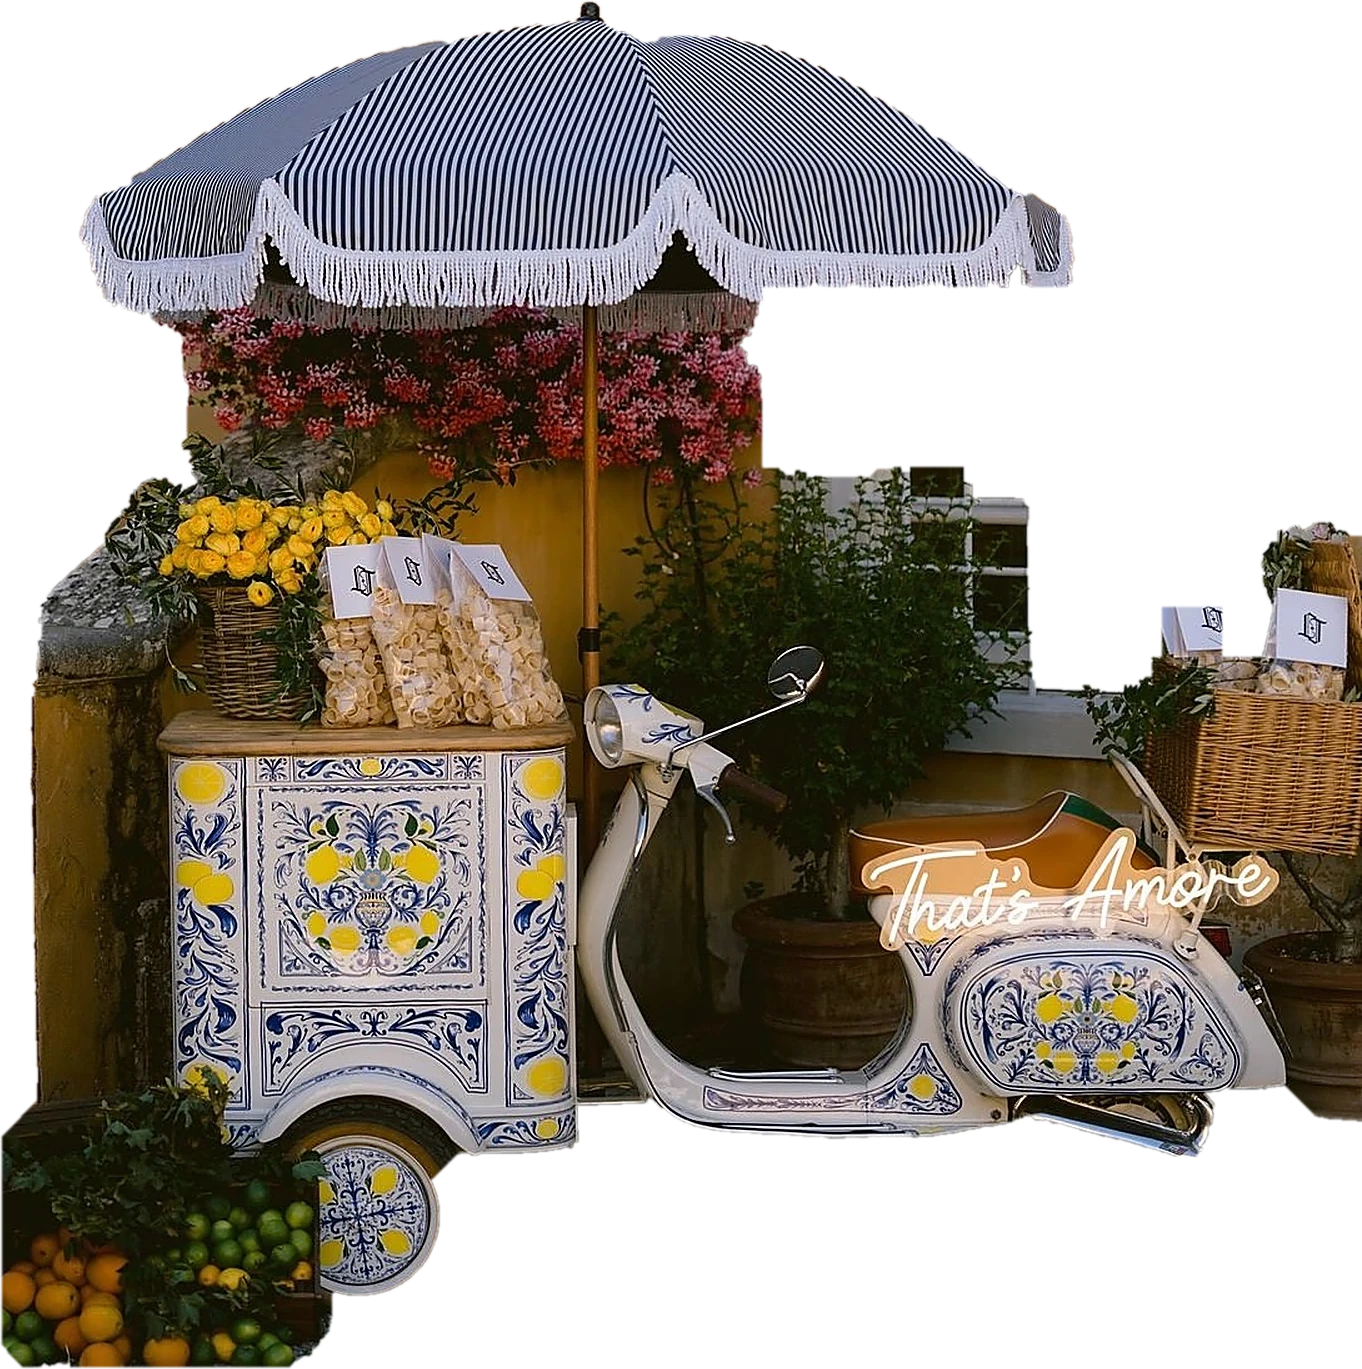
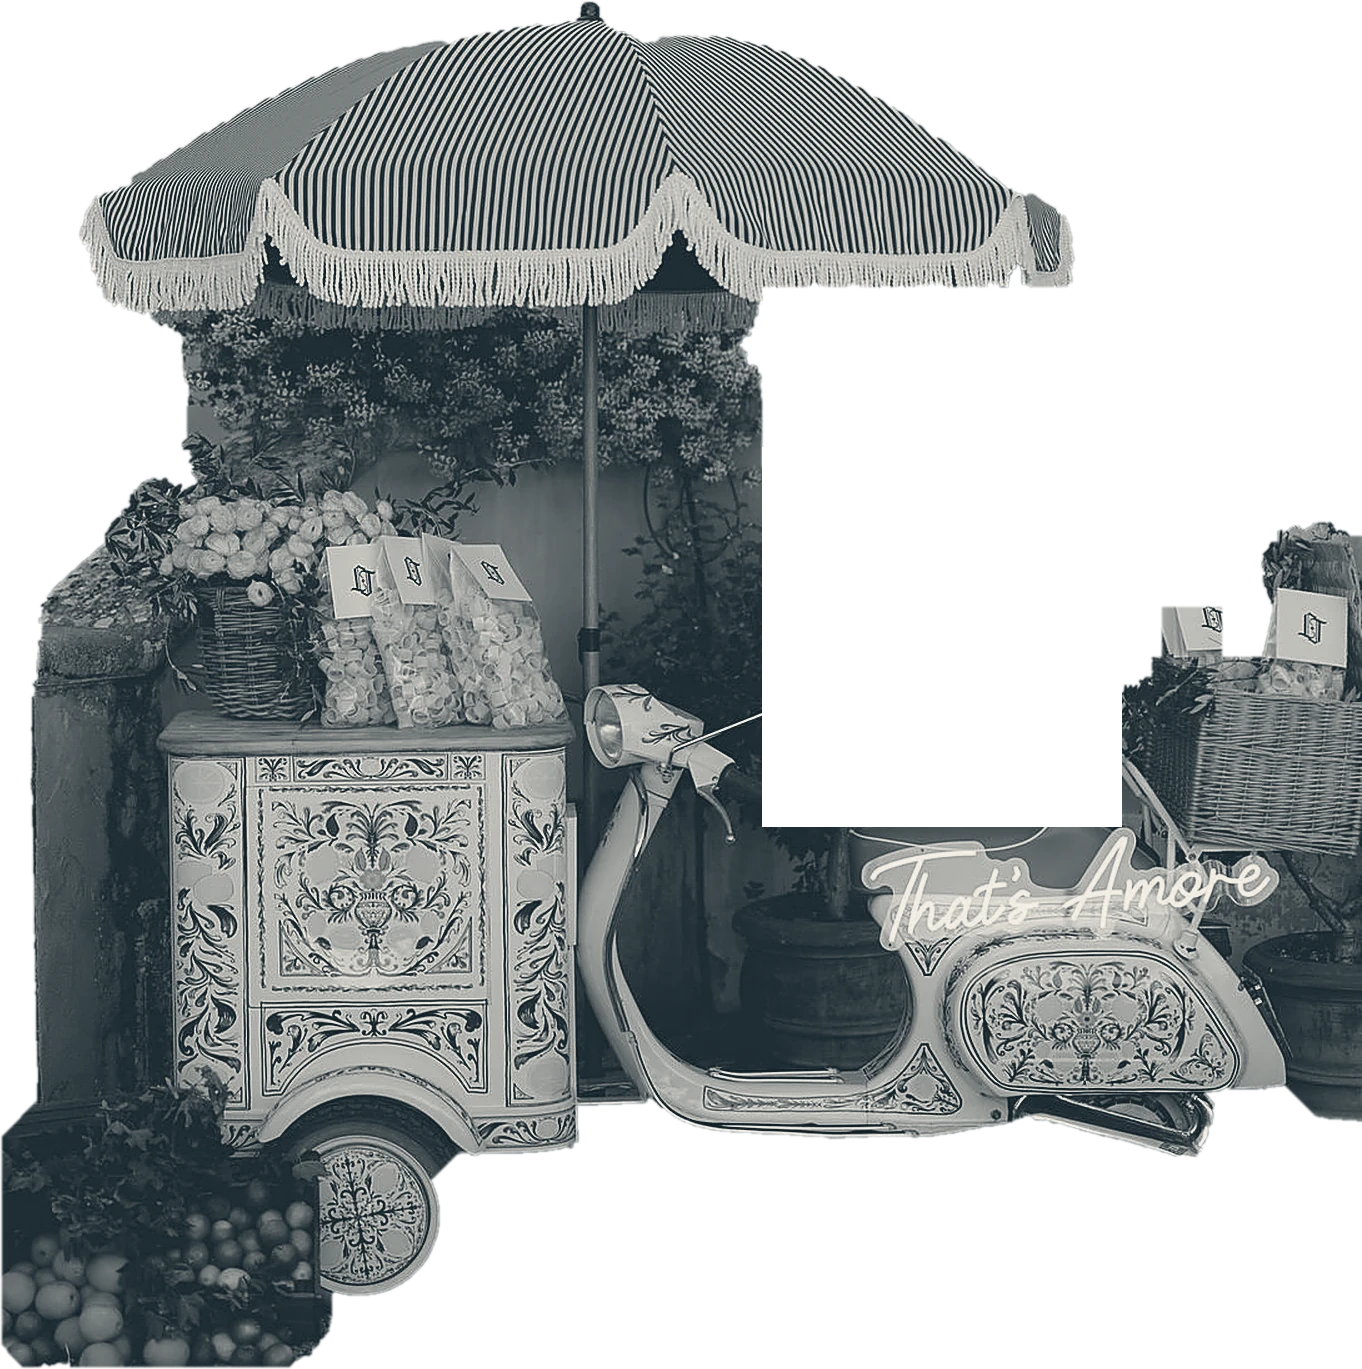
Fondatrice : traitement duotone (modélisation graphique), carte de menu redessinée, bug de rendu drop-shadow corrigé
- founder-vespa-cutout.webp passe en duotone bleu Méditerranéen/blanc
  calcaire (le détourage couleur avait été rejeté : "je veux une
  modélisation de l'image, pas l'image elle-même")
- Carte de menu (.founder-menu-card) entièrement redessinée : coins en L
  et double liséré retirés, remplacés par un ornement minimal
  trait+losange, coins arrondis, ombre adoucie, rotation réduite
- Retrait de filter:drop-shadow sur .founder-scene-cutout : combiné au
  scale() du zoom au scroll, il produisait un artefact rectangulaire
  (bug de rendu Chromium confirmé par comparaison de pixels), non résolu
  par un flou réduit ni par l'isolement de calque

diff --git a/assets/css/style.css b/assets/css/style.css
@@ -1489,17 +1489,28 @@ h3 { font-size: clamp(1.3rem, 1vw + 0.95rem, 1.75rem); }
   transform-origin: 25.1% 45.8%;
   will-change: transform;
 }
-/* drop-shadow (pas box-shadow) : suit la silhouette découpée du détourage
-   plutôt que de projeter l'ombre d'un rectangle photo — c'est ce qui fait
-   lire l'ensemble comme un objet 2D détouré posé sur la page, pas une
-   photo dans un cadre. */
+/* Pas de `filter:drop-shadow()` ici : un essai avait été fait pour suivre
+   la silhouette découpée (plutôt qu'un `box-shadow` rectangulaire), mais
+   Chromium produit un artefact de rendu réel avec cette combinaison
+   précise — un rectangle légèrement plus sombre que le fond navy,
+   visible en plein milieu de zones pourtant 100% transparentes de
+   l'image, uniquement quand le filtre est combiné à l'ancêtre
+   `.founder-scene-zoom` qui porte le `transform:scale()` du zoom au
+   scroll. Repéré par script Playwright (comparaison de pixels avant/
+   après désactivation du filtre, pas supposé) : ni réduire le rayon de
+   flou (`50px→18px`) ni isoler l'image sur son propre calque
+   (`transform:translateZ(0)`) n'a supprimé l'artefact — bug de
+   rastérisation du filtre sur calque transformé, pas un problème de
+   réglage. Le rendu reste net et lisible sans cette ombre (le détourage
+   duotone se suffit à lui-même comme objet posé sur le fond navy) ; si
+   `filter:drop-shadow` réapparaît ici, revérifier ce bug avant de le
+   garder. */
 .founder-scene-cutout {
   position: absolute;
   inset: 0;
   width: 100%;
   height: 100%;
   object-fit: contain;
-  filter: drop-shadow(0 26px 50px rgba(0, 0, 0, 0.5));
 }
 
 /* La carte de menu : positionnée pour recouvrir exactement l'emplacement
@@ -1549,43 +1560,47 @@ h3 { font-size: clamp(1.3rem, 1vw + 0.95rem, 1.75rem); }
   top: 36.8%;
   width: 24%;
   height: 18%;
-  background: linear-gradient(155deg, #fffaf0 0%, var(--cream) 65%);
-  border: 1px solid rgba(var(--navy-rgb), 0.16);
-  border-radius: 3px;
-  box-shadow: 0 10px 26px rgba(16, 31, 39, 0.4);
-  transform: rotate(-2.5deg) translateY(10px);
+  background: linear-gradient(165deg, #fffdf7 0%, var(--cream) 100%);
+  border-radius: 9px;
+  box-shadow:
+    0 1px 0 rgba(255, 255, 255, 0.6) inset,
+    0 14px 32px rgba(9, 18, 23, 0.34),
+    0 2px 6px rgba(9, 18, 23, 0.2);
+  transform: rotate(-1.1deg) translateY(10px);
   opacity: 0;
   display: flex;
+  flex-direction: column;
   align-items: center;
   justify-content: center;
-  padding: 5px 7px;
+  gap: 6px;
+  padding: 8px 9px;
 }
-.founder-menu-card::before {
+.founder-menu-card-ornament {
+  position: relative;
+  width: 34%;
+  height: 1px;
+  background: var(--terracotta);
+  opacity: 0.75;
+  flex-shrink: 0;
+}
+.founder-menu-card-ornament::before {
   content: "";
   position: absolute;
-  inset: 11%;
-  border: 0.5px solid var(--rosso-venezia);
-  opacity: 0.55;
-  pointer-events: none;
+  top: 50%;
+  left: 50%;
+  width: 5px;
+  height: 5px;
+  border-radius: 50%;
+  background: var(--terracotta);
+  transform: translate(-50%, -50%) rotate(45deg);
 }
-.founder-menu-card-corner {
-  position: absolute;
-  width: 15%;
-  height: 22%;
-  border: 1.4px solid var(--terracotta);
-  pointer-events: none;
-}
-.founder-menu-card-corner-tl { top: 7%; left: 7%; border-right: none; border-bottom: none; }
-.founder-menu-card-corner-tr { top: 7%; right: 7%; border-left: none; border-bottom: none; }
-.founder-menu-card-corner-bl { bottom: 7%; left: 7%; border-right: none; border-top: none; }
-.founder-menu-card-corner-br { bottom: 7%; right: 7%; border-left: none; border-top: none; }
 .founder-menu-card-quote {
   position: relative;
   z-index: 1;
   width: 100%;
   font-family: var(--font-display);
   font-style: italic;
-  line-height: 1.22;
+  line-height: 1.24;
   text-align: center;
   color: var(--rosso-ombria);
 }

diff --git a/engagements.html b/engagements.html
@@ -319,12 +319,9 @@
 
       <div class="founder-scene-frame">
         <div class="founder-scene-zoom" id="founderZoom">
-          <img class="founder-scene-cutout" src="assets/img/founder-vespa-cutout.webp" alt="Le stand Vespa fleuri Simposio, décor Dolce Vita" loading="lazy" />
+          <img class="founder-scene-cutout" src="assets/img/founder-vespa-cutout.webp" alt="Modélisation graphique du stand Vespa fleuri Simposio" />
           <div class="founder-menu-card" id="founderMenuCard">
-            <span class="founder-menu-card-corner founder-menu-card-corner-tl" aria-hidden="true"></span>
-            <span class="founder-menu-card-corner founder-menu-card-corner-tr" aria-hidden="true"></span>
-            <span class="founder-menu-card-corner founder-menu-card-corner-bl" aria-hidden="true"></span>
-            <span class="founder-menu-card-corner founder-menu-card-corner-br" aria-hidden="true"></span>
+            <span class="founder-menu-card-ornament" aria-hidden="true"></span>
             <p class="founder-menu-card-quote">
               « Simposio est née de l'envie de porter l'art de recevoir à l'italienne jusqu'en Alsace — pas comme un
               thème, mais comme une manière de traiter chaque invité. »

diff --git a/assets/js/main.js b/assets/js/main.js
@@ -1006,7 +1006,7 @@
         founderCard.style.opacity = String(cardT);
         founderCard.style.filter = "blur(" + ((1 - cardT) * 6).toFixed(2) + "px)";
         var cardLift = (1 - cardT) * 10;
-        founderCard.style.transform = "rotate(-2.5deg) translateY(" + cardLift.toFixed(2) + "px)";
+        founderCard.style.transform = "rotate(-1.1deg) translateY(" + cardLift.toFixed(2) + "px)";
       }
 
       if (founderCaption) {

diff --git a/CLAUDE.md b/CLAUDE.md
@@ -3324,6 +3324,96 @@ formulaire de contact (soumission par `mailto:`, pas de backend).
   régression sur le reste du détourage. Regression complète 5 pages ×
   2 viewports : 0 débordement, 0 erreur console, 0 lien/asset cassé
   (l'ancien fichier photo a été supprimé du dépôt).
+- **Fondatrice — traitement duotone ("modélisation, pas l'image"), carte
+  redessinée, bug de rendu du drop-shadow corrigé (2026-08-18, même
+  journée)** (`founder-vespa-cutout.webp`, `.founder-menu-card*`,
+  `.founder-scene-cutout`, `engagements.html`/`style.css`/`main.js`) : la
+  cliente a rejeté le détourage couleur du bullet précédent ("Je t'ai dit
+  que je veux une modélisation de l'image, pas l'image elle-même et que tu
+  découpes uniquement le stand. Par ailleurs la carte est vraiment moche
+  retravaille tout ça pour que ça fasse élégant.") — deux corrections
+  distinctes.
+  **"Modélisation, pas l'image elle-même"** : une tentative d'illustration
+  vectorielle dessinée à la main (Vespa en SVG simplifié) a été essayée en
+  premier et écartée après rendu — beaucoup trop grossière/amateur pour le
+  niveau de finition attendu sur ce site (aucun outil de génération d'image
+  disponible dans cet environnement pour produire une illustration
+  crédible, cf. limitation déjà documentée). Remplacé par un traitement
+  **duotone** du détourage réel (toujours issu de GrabCut, cf. bullet
+  précédent, aucun pixel modifié) : luminance de chaque pixel interpolée
+  entre le Bleu Méditerranéen foncé (`--navy-900`) et le Blanc Calcaire
+  (`--cream`), canal alpha d'origine conservé à l'identique (script Pillow/
+  numpy, non commité — dérivé comme les autres traitements photo du
+  projet). Le résultat se lit comme une gravure/illustration éditoriale
+  plutôt qu'une photo filtrée — validé visuellement avant application (une
+  version composée sur fond navy a été inspectée) puis confirmé une fois
+  en place sur la page réelle. Dimensions inchangées (1362×1369) donc
+  aucun recalcul des pourcentages de position de la carte ni du
+  `transform-origin` du zoom n'a été nécessaire.
+  **"Découpe uniquement le stand" — tenté puis explicitement abandonné** :
+  un essai de recadrage pour exclure un panier en osier secondaire visible
+  à droite de la composition a été fait, mesuré par script Python (analyse
+  colonne par colonne de l'opacité) — mais le panier et la carrosserie
+  arrière de la Vespa se chevauchent en pixels sur toute cette zone (aucune
+  colonne totalement transparente entre les deux), rendant impossible une
+  découpe rectangulaire propre. Un premier essai de recadrage a produit un
+  bord net tranchant en plein milieu du scooter, repéré par capture d'écran
+  avant d'être appliqué au site — abandonné. Le fichier livré garde donc
+  l'assemblage complet du stand (parasol, meuble en céramique, Vespa et
+  panier), qui reste cohérent comme un seul élément de décor. Si un
+  recadrage partiel de `founder-vespa-cutout.webp` réapparaît ici, vérifier
+  d'abord par un script d'opacité colonne par colonne qu'aucune découpe
+  franche du Vespa n'est réintroduite.
+  **Carte "vraiment moche" — retravaillée** (`.founder-menu-card`,
+  `style.css`) : les 4 coins décoratifs en L (`.founder-menu-card-corner-*`)
+  et le double liséré pointillé-devenu-plein intérieur
+  (`.founder-menu-card::before`) — jugés trop chargés, effet "enseigne de
+  motel" — sont entièrement retirés (HTML et CSS) et remplacés par un seul
+  petit ornement minimal (`.founder-menu-card-ornament` : un fin trait
+  terracotta horizontal avec un losange centré) posé au-dessus de la
+  citation. La carte elle-même est adoucie : `border-radius` de `3px` à
+  `9px`, la bordure fine `rgba(navy,0.16)` est retirée (le `box-shadow`
+  seul suffit à détacher la carte du fond), l'ombre portée est éclaircie/
+  diffusée (`0 14px 32px` + un liseré clair `inset` en haut plutôt qu'un
+  simple `0 10px 26px` plat), la rotation réduite de `-2.5deg` à `-1.1deg`
+  pour une pose plus posée. La disposition interne passe de
+  `justify-content:center` (ligne unique) à `flex-direction:column;
+  gap:6px` pour empiler l'ornement au-dessus du texte. **Piège de padding
+  en `%` réintroduit puis corrigé sur-le-champ** : le premier jet utilisait
+  `padding:9% 10%` sur `.founder-menu-card` — comme déjà documenté et
+  corrigé une fois pour cette même carte (bullet précédent), un pourcentage
+  de padding se résout par rapport à la largeur du conteneur ENGLOBANT
+  (`.founder-scene-zoom`, ~544px), pas de la carte elle-même (~131px) ;
+  repéré avant publication (pas seulement corrigé après coup) et remplacé
+  par un padding fixe (`8px 9px`). La rotation codée en dur dans
+  `updateFounderDive()` (`main.js`, appliquée à chaque frame de scroll par-
+  dessus la base CSS) a été mise à jour en conséquence (`-2.5deg` →
+  `-1.1deg`), sans quoi le JS aurait écrasé la nouvelle rotation CSS à
+  chaque tick de scroll.
+  **Bug de rendu Chromium réel trouvé et corrigé, sans lien avec les deux
+  demandes ci-dessus** : lors de la vérification par capture d'écran, un
+  rectangle légèrement plus sombre que le fond navy restait visible en
+  haut à droite du cadre, y compris dans des zones à 100% transparentes du
+  détourage — confirmé par échantillonnage de pixels (le rectangle
+  disparaissait entièrement quand `filter` était désactivé en JS dans la
+  console). Cause : `filter:drop-shadow()` sur `.founder-scene-cutout`,
+  combiné au `transform:scale()` du zoom au scroll porté par son parent
+  `.founder-scene-zoom` — un vrai bug de rastérisation de filtre sur calque
+  transformé, pas un réglage à ajuster. Deux contournements standards
+  testés et écartés (aucun n'a fait disparaître le rectangle) : réduire le
+  rayon de flou (`50px→18px`) et isoler l'image sur son propre calque de
+  composition (`transform:translateZ(0)` + `will-change`). Le filtre a été
+  retiré plutôt que contourné — le détourage duotone se suffit à lui-même
+  sans ombre portée photographique, cohérent avec l'esprit "modélisation
+  graphique" plutôt que photo. Si `filter:drop-shadow` réapparaît sur
+  `.founder-scene-cutout`, revérifier ce bug (comparaison de pixels
+  avant/après désactivation) avant de le garder.
+  Vérifié par script Playwright (0 erreur console, 0 débordement horizontal,
+  carte : opacité/rotation/`border-radius` mesurés conformes, texte de
+  citation contenu dans la carte — `scrollHeight` ≤ hauteur disponible — à
+  7 fractions de progression de scroll × desktop/mobile) et capture d'écran
+  aux mêmes fractions. Regression complète 5 pages × 2 viewports : 0
+  débordement, 0 erreur console, 0 lien/asset cassé.
 
 ## État d'avancement
 

diff --git a/assets/img/CREDITS.md b/assets/img/CREDITS.md
@@ -176,3 +176,28 @@ positionnée exactement à leur emplacement, qui se matérialise au scroll
 (voir `.founder-menu-card` dans `style.css` et `updateFounderDive()` dans
 `main.js`). Export en WebP (plutôt que PNG) pour la taille de fichier :
 ~470 Ko contre ~3,6 Mo en PNG pour un rendu visuellement identique.
+
+**Traitement duotone (2026-08-18, même journée)** : la cliente a rejeté
+cette version couleur ("je veux une modélisation de l'image, pas l'image
+elle-même") — remplacée par un traitement bicolore (luminance du détourage
+interpolée entre le Bleu Méditerranéen foncé et le Blanc Calcaire, alpha
+d'origine conservé pixel pour pixel) qui fait lire l'ensemble comme une
+gravure/illustration éditoriale plutôt qu'une photo filtrée. Dimensions
+inchangées (1362×1369), donc aucun recalcul nécessaire des pourcentages de
+position de la carte ni du `transform-origin` du zoom. Une tentative de
+recadrer le détourage pour ne garder "que le stand" (retirer un panier en
+osier secondaire à droite de la composition, demande de la cliente) a été
+essayée puis abandonnée : le panier et la Vespa se chevauchent en pixels
+sur cette zone (aucune séparation propre par simple découpe rectangulaire
+sans trancher dans la carrosserie de la Vespa elle-même, vérifié par script
+Python) — un premier essai de recadrage a produit un bord net visible en
+plein milieu du scooter. Le fichier livré garde donc l'ensemble complet du
+stand (parasol, meuble, Vespa et panier), qui reste cohérent comme un seul
+élément de décor. Voir aussi dans `style.css` (règle `.founder-scene-cutout`)
+la documentation d'un bug de rendu Chromium réel trouvé le même jour : un
+`filter:drop-shadow()` posé sur cette image, combiné au `transform:scale()`
+du zoom au scroll sur son parent, produisait un artefact rectangulaire
+(un léger assombrissement, visible même sur des zones 100% transparentes de
+l'image) — confirmé par comparaison de pixels avant/après désactivation du
+filtre, non résolu ni par un rayon de flou plus petit ni par l'isolement du
+calque (`translateZ(0)`) ; le filtre a été retiré plutôt que contourné.
